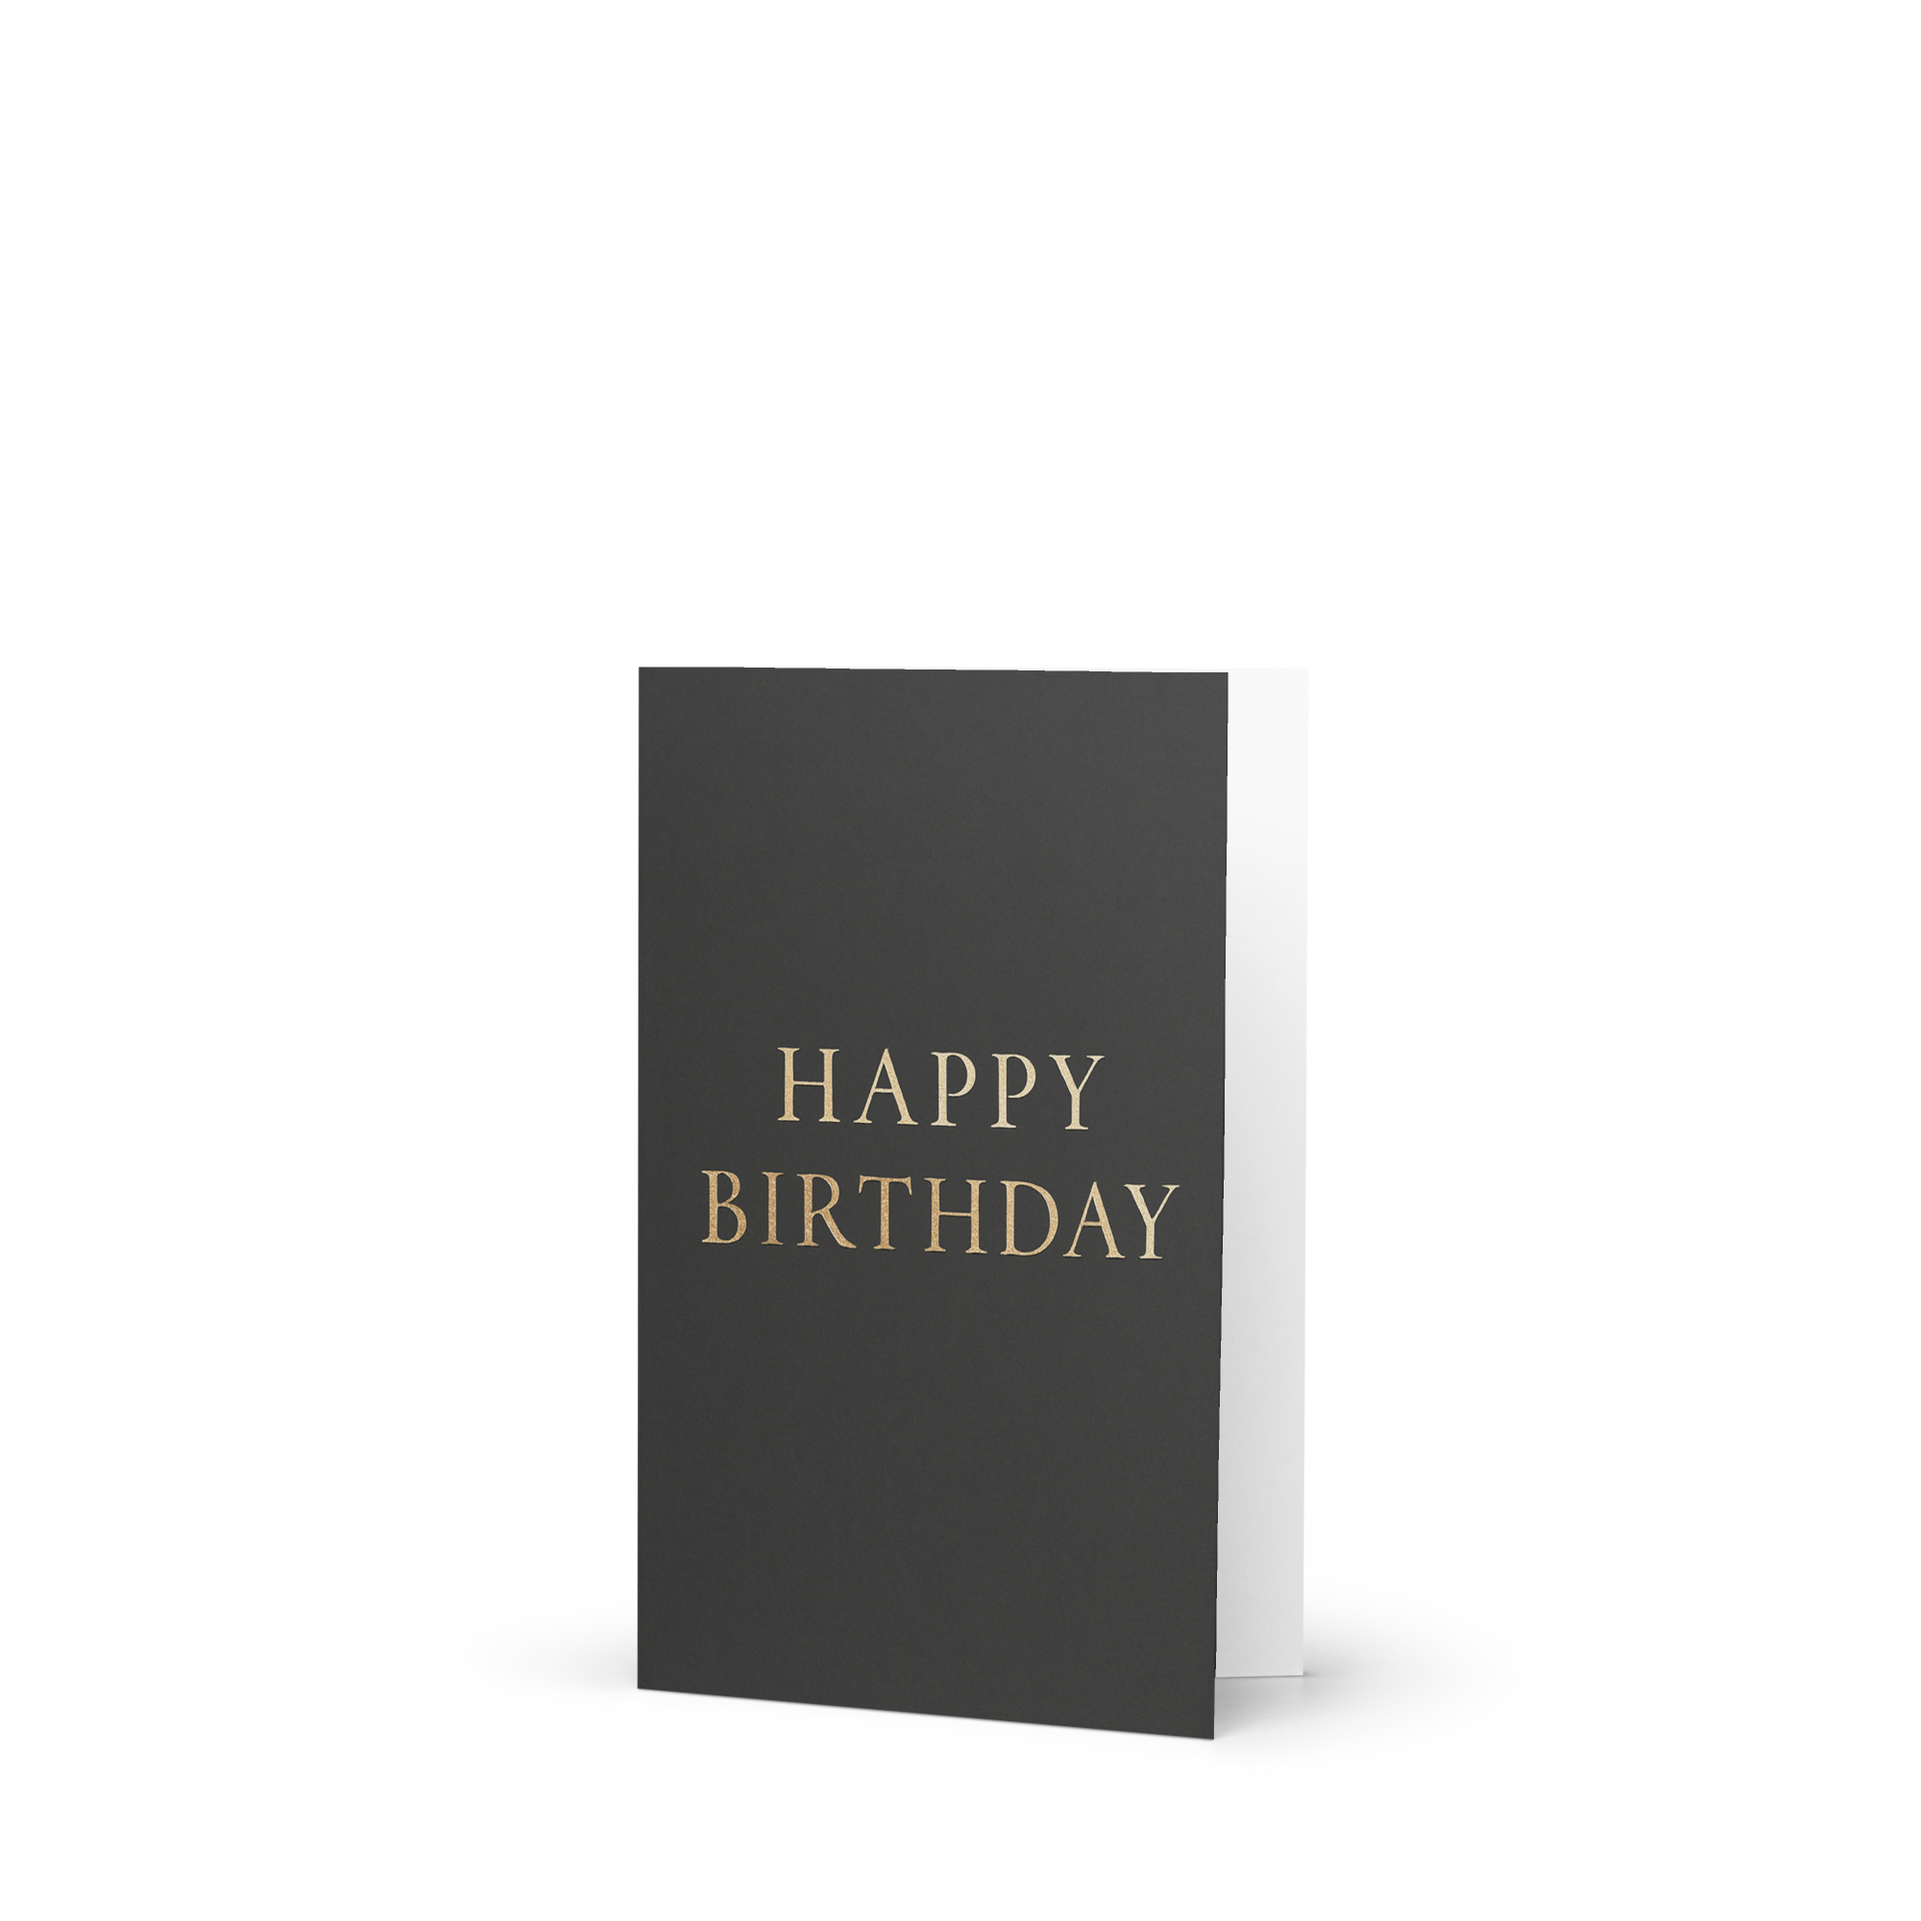
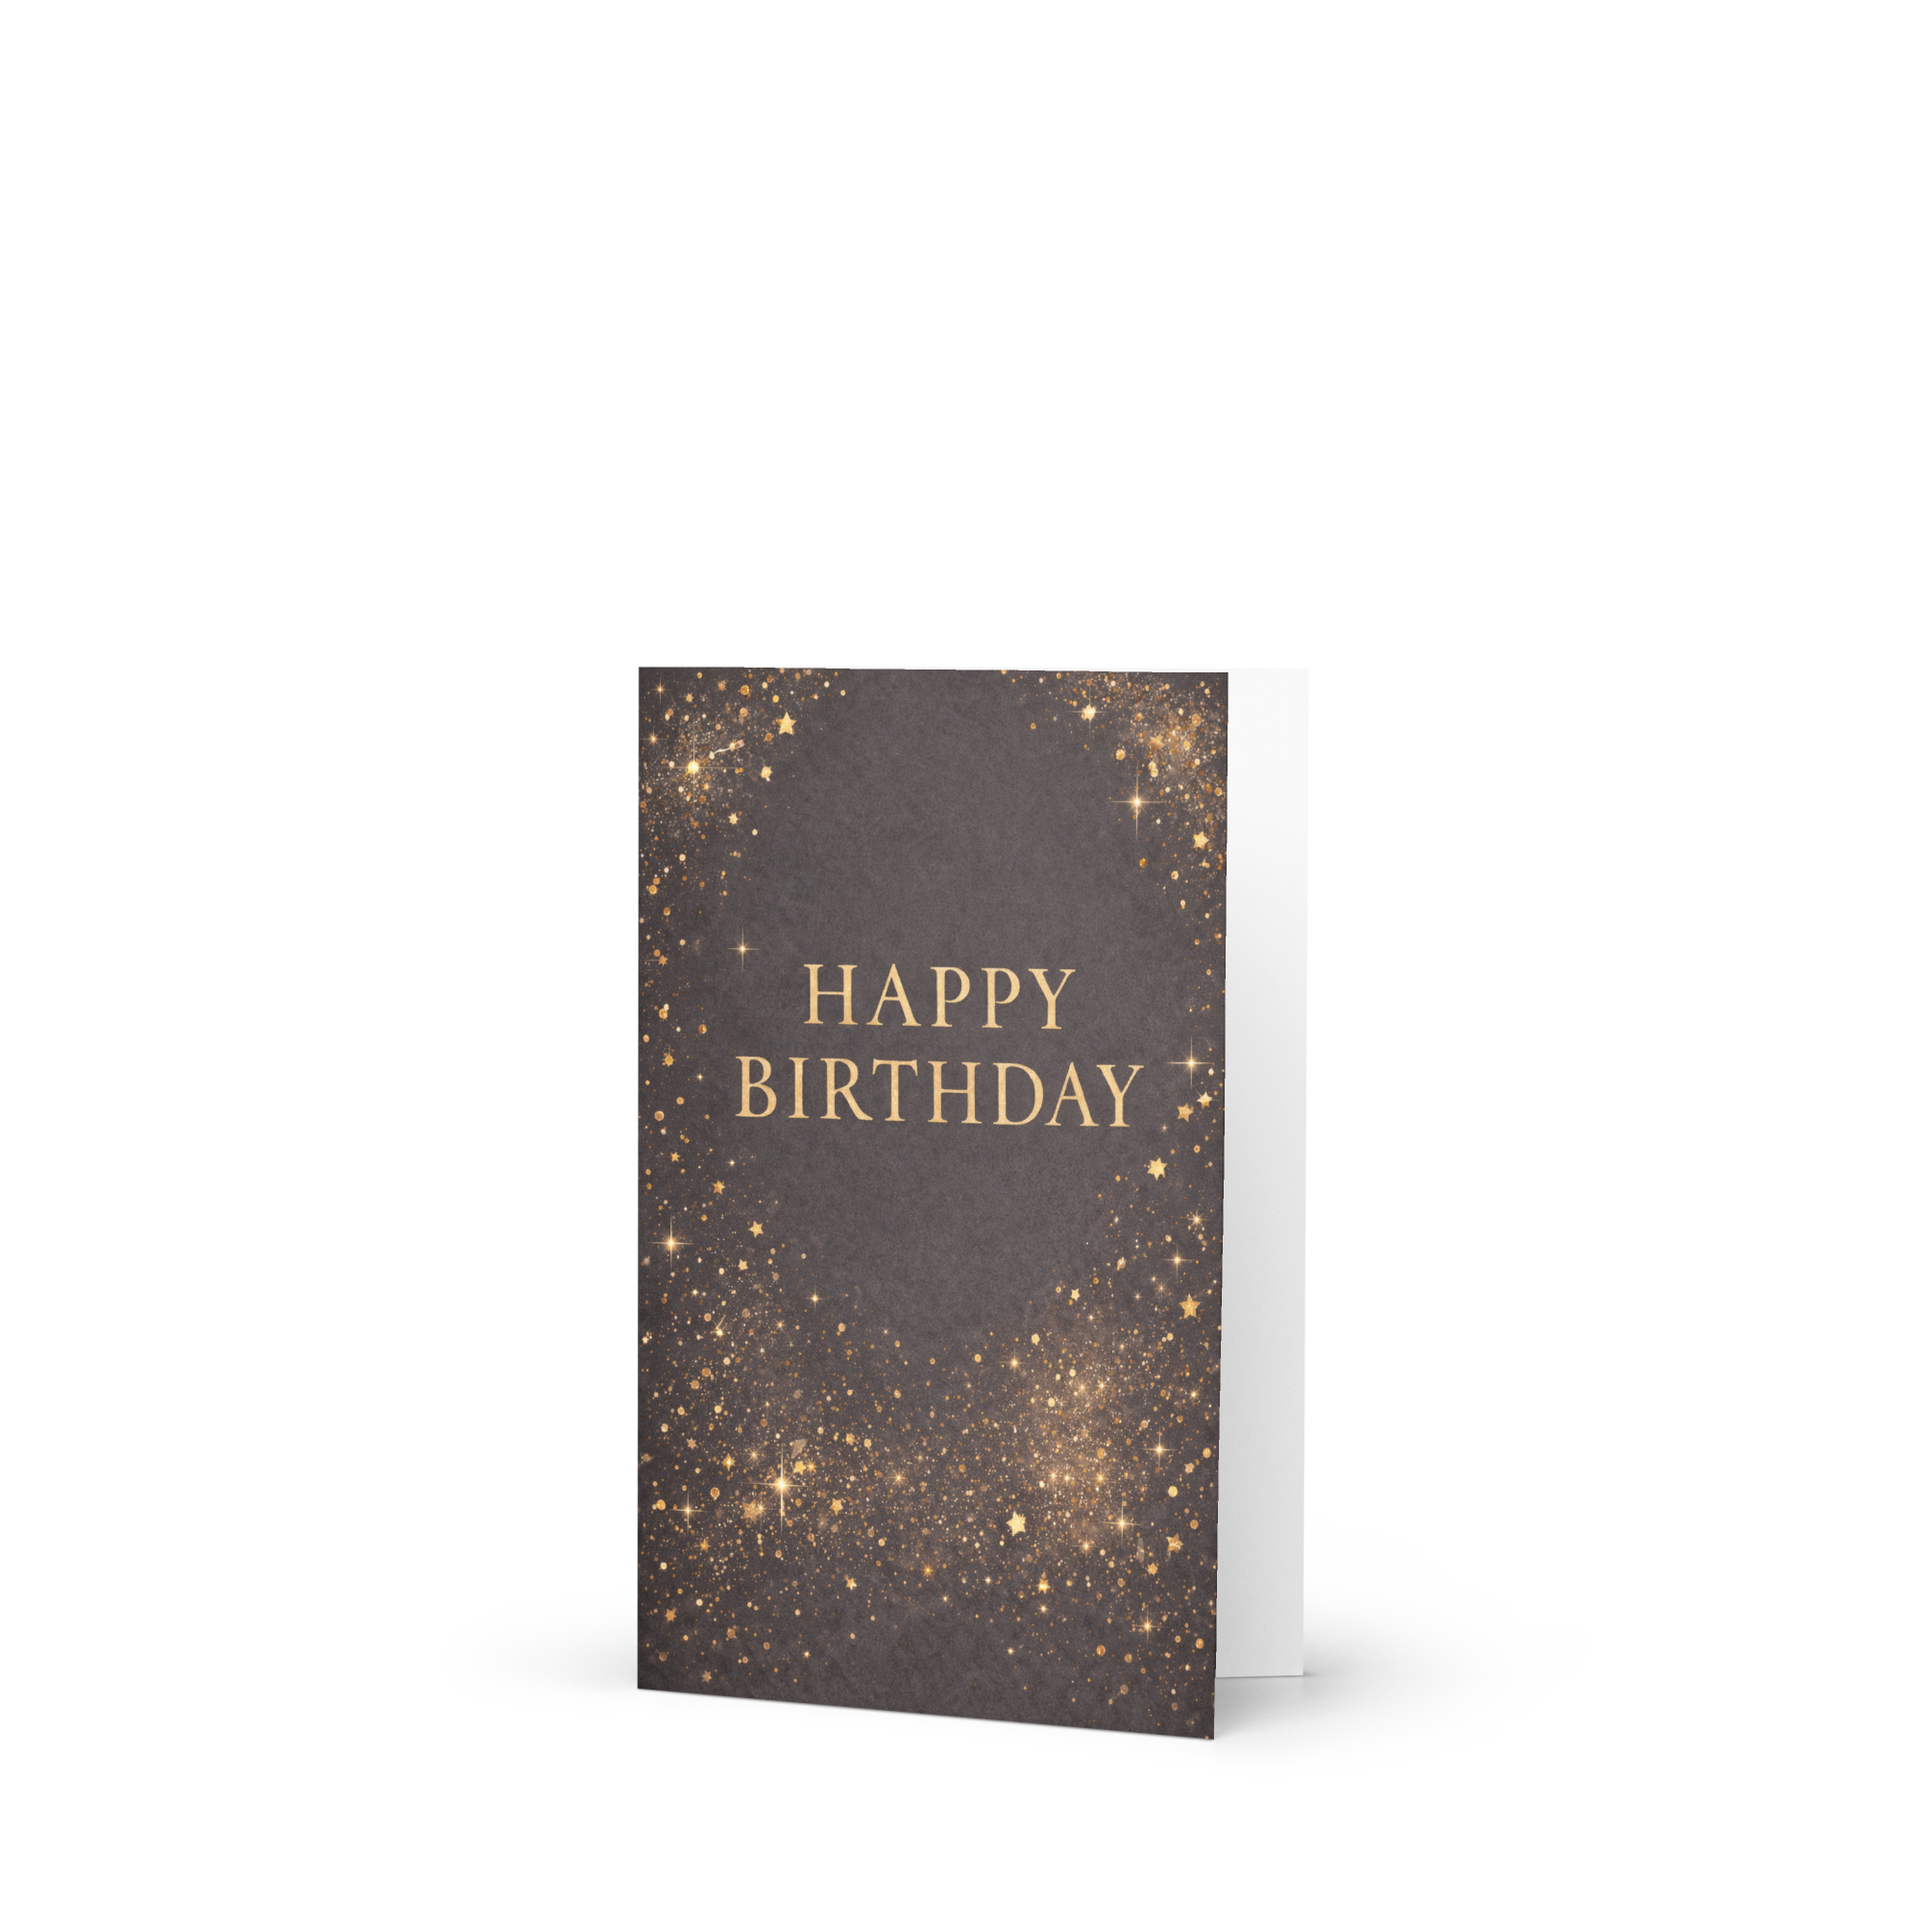
Updating cover art for Black and Gold Birthday

Changed region(s): [[0.31, 0.341, 0.651, 0.899]]

diff --git a/lib/cardTemplates.ts b/lib/cardTemplates.ts
@@ -261,7 +261,7 @@ export const CARD_TEMPLATES: CardTemplate[] = [
     stripePriceId: "price_1SWJVN0btTMST7LgTBriW2Am",
     printfulSyncVariantId: 5079273568,
     printfulShippingVariantId: 14457,
-    printfulCoverFileId: 918069908,
+    printfulCoverFileId: 929733444,
     printfulBackFileId:  927651412,
     images: [
       "/BlackGoldBirthdayImages/BlackGoldBirthdayMockup1.png",
